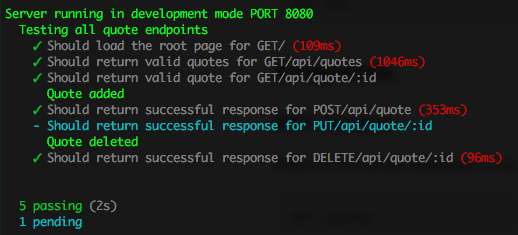
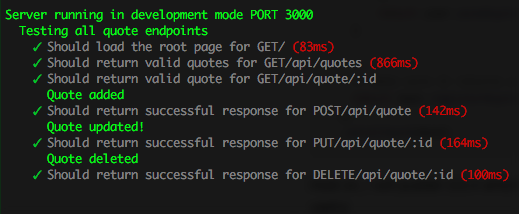
fixed issue where test would fail because promise was not returned

Changed region(s): [[0.0, 0.028, 0.9884, 0.9813]]

diff --git a/app/routes/index.js b/app/routes/index.js
@@ -30,7 +30,7 @@ router.get('/quote/:id', function(req, res) {
           message: 'You are trying to access a quote that does not exist in database'
         });
       } else {
-        Quote.findById(req.params.id)
+        return Quote.findById(req.params.id)
           .execAsync()
           .then(function(quote) {
             res.json(quote);
@@ -55,7 +55,7 @@ router.post('/quote', validateQuote.request, function(req, res) {
         movie: req.validBody.movie,
         character: req.validBody.character
       });
-      quote.save(function(err) {
+      return quote.saveAsync(function(err) {
         if (err) {
           res.send(err);
         }
@@ -80,14 +80,14 @@ router.put('/quote/:id', validateQuote.request, function(req, res) {
           message: 'Your are trying to update a quote that does not exist in database'
         });
       } else {
-        Quote.findById(req.params.id)
+        return Quote.findById(req.params.id)
           .execAsync()
           .then(function(quote) {
             quote.quote = req.validBody.quote;
             quote.movie = req.validBody.movie;
             quote.character = req.validBody.character;
 
-            quote.save(function(err) {
+            return quote.saveAsync(function(err) {
               if (err) {
                 res.send(err);
               }
@@ -116,7 +116,7 @@ router.delete('/quote/:id', function(req, res) {
           message: 'You are trying to delete a quote that does not exist in database'
         });
       } else {
-        Quote.remove({
+        return Quote.remove({
             _id: req.params.id
           },
           function(err) {

diff --git a/test/system/systemtest.js b/test/system/systemtest.js
@@ -104,7 +104,7 @@ describe('Testing all quote endpoints', function() {
       });
   });
 
-  it.skip('Should return successful response for PUT/api/quote/:id', function(done) {
+  it('Should return successful response for PUT/api/quote/:id', function(done) {
     request(app)
       .put('/api/quote/1')
       .expect(200)
